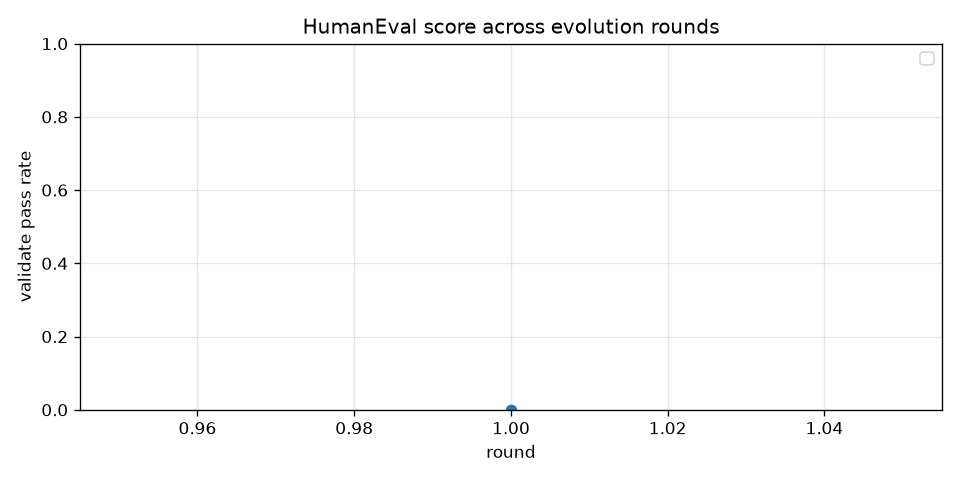
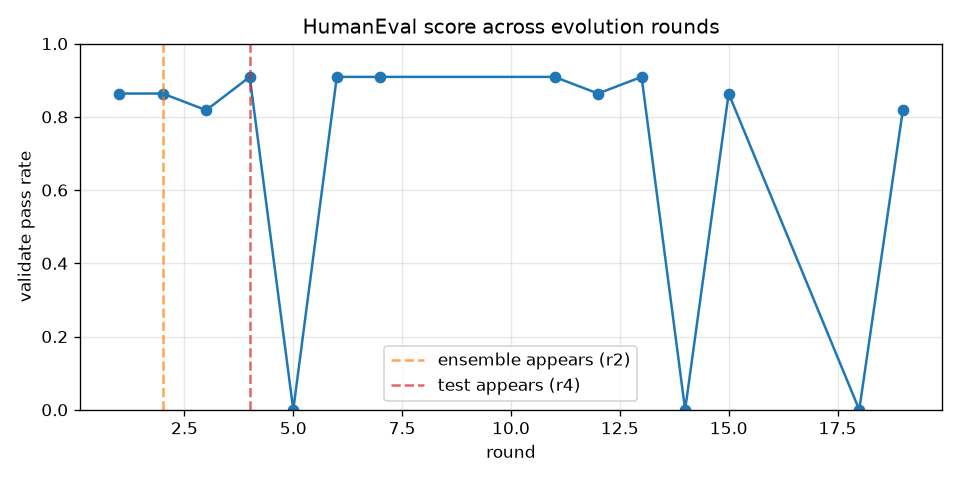
succesful run

diff --git a/results/evolution_report.md b/results/evolution_report.md
@@ -1,31 +1,38 @@
 # Evolution run summary
 
 - Rounds recorded: **21**
-- Best score: **0.000** at round **1**
-- Seed (round 1) score: **0.000**
+- Best score: **0.909** at round **4**
+- Seed (round 1) score: **0.864**
+
+## Key structural events
+- **ensemble node** first appears at round **2**
+- **test node** first appears at round **4**
+- **retry/loop** first appears at round **2**
 
 ## Per-round detail
 
 | Round | Parent | Score | Δ vs parent | Kept? | Structure | What changed |
 |------:|-------:|------:|:-----------:|:-----:|:----------|:-------------|
-| 1 | — | 0.000 | — | — | 1x generate | (seed workflow) |
-| 2 | — | — | — | — | (single generate) | (seed workflow) |
-| 3 | — | — | — | — | (single generate) | (seed workflow) |
-| 4 | — | — | — | — | (single generate) | (seed workflow) |
-| 5 | — | — | — | — | (single generate) | (seed workflow) |
-| 6 | — | — | — | — | (single generate) | (seed workflow) |
-| 7 | — | — | — | — | (single generate) | (seed workflow) |
-| 8 | — | — | — | — | (single generate) | (seed workflow) |
-| 9 | — | — | — | — | (single generate) | (seed workflow) |
-| 10 | — | — | — | — | (single generate) | (seed workflow) |
-| 11 | — | — | — | — | (single generate) | (seed workflow) |
-| 12 | — | — | — | — | (single generate) | (seed workflow) |
-| 13 | — | — | — | — | (single generate) | (seed workflow) |
-| 14 | — | — | — | — | (single generate) | (seed workflow) |
-| 15 | — | — | — | — | (single generate) | (seed workflow) |
-| 16 | — | — | — | — | (single generate) | (seed workflow) |
-| 17 | — | — | — | — | (single generate) | (seed workflow) |
-| 18 | — | — | — | — | (single generate) | (seed workflow) |
-| 19 | — | — | — | — | (single generate) | (seed workflow) |
-| 20 | — | — | — | — | (single generate) | (seed workflow) |
-| 21 | — | — | — | — | (single generate) | (seed workflow) |
+| 1 | — | 0.864 | — | — | 1x generate | (seed workflow) |
+| 2 | 1 | 0.864 | +0.000 | no | 1x generate, ensemble, loop | Add the `sc_ensemble` operator to enhance the solution selection process, ensuring the best possible solution is chosen by voting among multiple solutions. |
+| 3 | 1 | 0.818 | -0.045 | no | 1x generate, ensemble, loop | Added the `sc_ensemble` operator to aggregate multiple solutions and select the most frequent one, enhancing the robustness of the solution selection process. |
+| 4 | 2 | 0.909 | +0.045 | yes | 1x generate, ensemble, test, loop | Add a test operator call to validate the generated solution against provided test cases before returning the final result. |
+| 5 | 3 | 0.000 | -0.818 | no | 1x generate, ensemble, loop | Add a custom method to handle edge cases and improve the accuracy of the generated code. |
+| 6 | 2 | 0.909 | +0.045 | yes | 1x generate, ensemble, test, loop | Added a test operator call to validate the generated solution against provided test cases before returning the final result. |
+| 7 | 4 | 0.909 | +0.000 | no | 2x generate, ensemble, test, loop | Modify the CustomCodeGenerate operator to include a reflection step if the initial solution fails testing. This step will attempt to identify the error and refine the solution before final testing. |
+| 8 | — | — | — | — | 1x generate, ensemble, test, loop | (seed workflow) |
+| 9 | — | — | — | — | 1x generate, ensemble, test, loop | (seed workflow) |
+| 10 | — | — | — | — | 1x generate, test | (seed workflow) |
+| 11 | 7 | 0.909 | +0.000 | no | 2x generate, ensemble, test, loop | Add a reflection step before attempting to refine the solution to ensure that the reflection is based on a more informed analysis of the initial failure. |
+| 12 | 1 | 0.864 | +0.000 | no | 1x generate, ensemble, loop | - Added the `sc_ensemble` operator to the workflow to enhance the robustness of the solution selection process.
+    - Modified the `__call__` method to include the `sc_ensemble` step before returning the final solution. |
+| 13 | 7 | 0.909 | +0.000 | no | 2x generate, ensemble, test, loop | Add a pre-processing step to analyze the problem and generate a more specific instruction for the `custom_code_generate` method. |
+| 14 | 7 | 0.000 | -0.909 | no | 2x generate, ensemble, test, loop | Add a pre-reflection step before the initial solution generation to ensure the problem is well understood and the initial instructions are more directed. |
+| 15 | 1 | 0.864 | +0.000 | no | 1x generate, ensemble, loop | Introduce the `sc_ensemble` operator to aggregate multiple solutions and select the most frequent one, enhancing the robustness of the solution selection process. Modify the `__call__` method to include the `sc_ensemble` step before returning the final solution. |
+| 16 | — | — | — | — | 1x generate, ensemble, test, loop | (seed workflow) |
+| 17 | — | — | — | — | 1x generate, test | (seed workflow) |
+| 18 | 7 | 0.000 | -0.909 | no | 2x generate, ensemble, test, loop | Add a pre-analysis step to evaluate the complexity and type of the problem before generating the initial solution. |
+| 19 | 1 | 0.818 | -0.045 | no | 1x generate, ensemble, loop | - Introduce the `sc_ensemble` operator to aggregate multiple solutions and select the most frequent one, enhancing the robustness of the solution selection process.
+- Modify the `__call__` method to include the `sc_ensemble` step before returning the final solution. |
+| 20 | — | — | — | — | 1x generate, ensemble, test, loop | (seed workflow) |
+| 21 | — | — | — | — | 1x generate, ensemble, test, loop | (seed workflow) |
